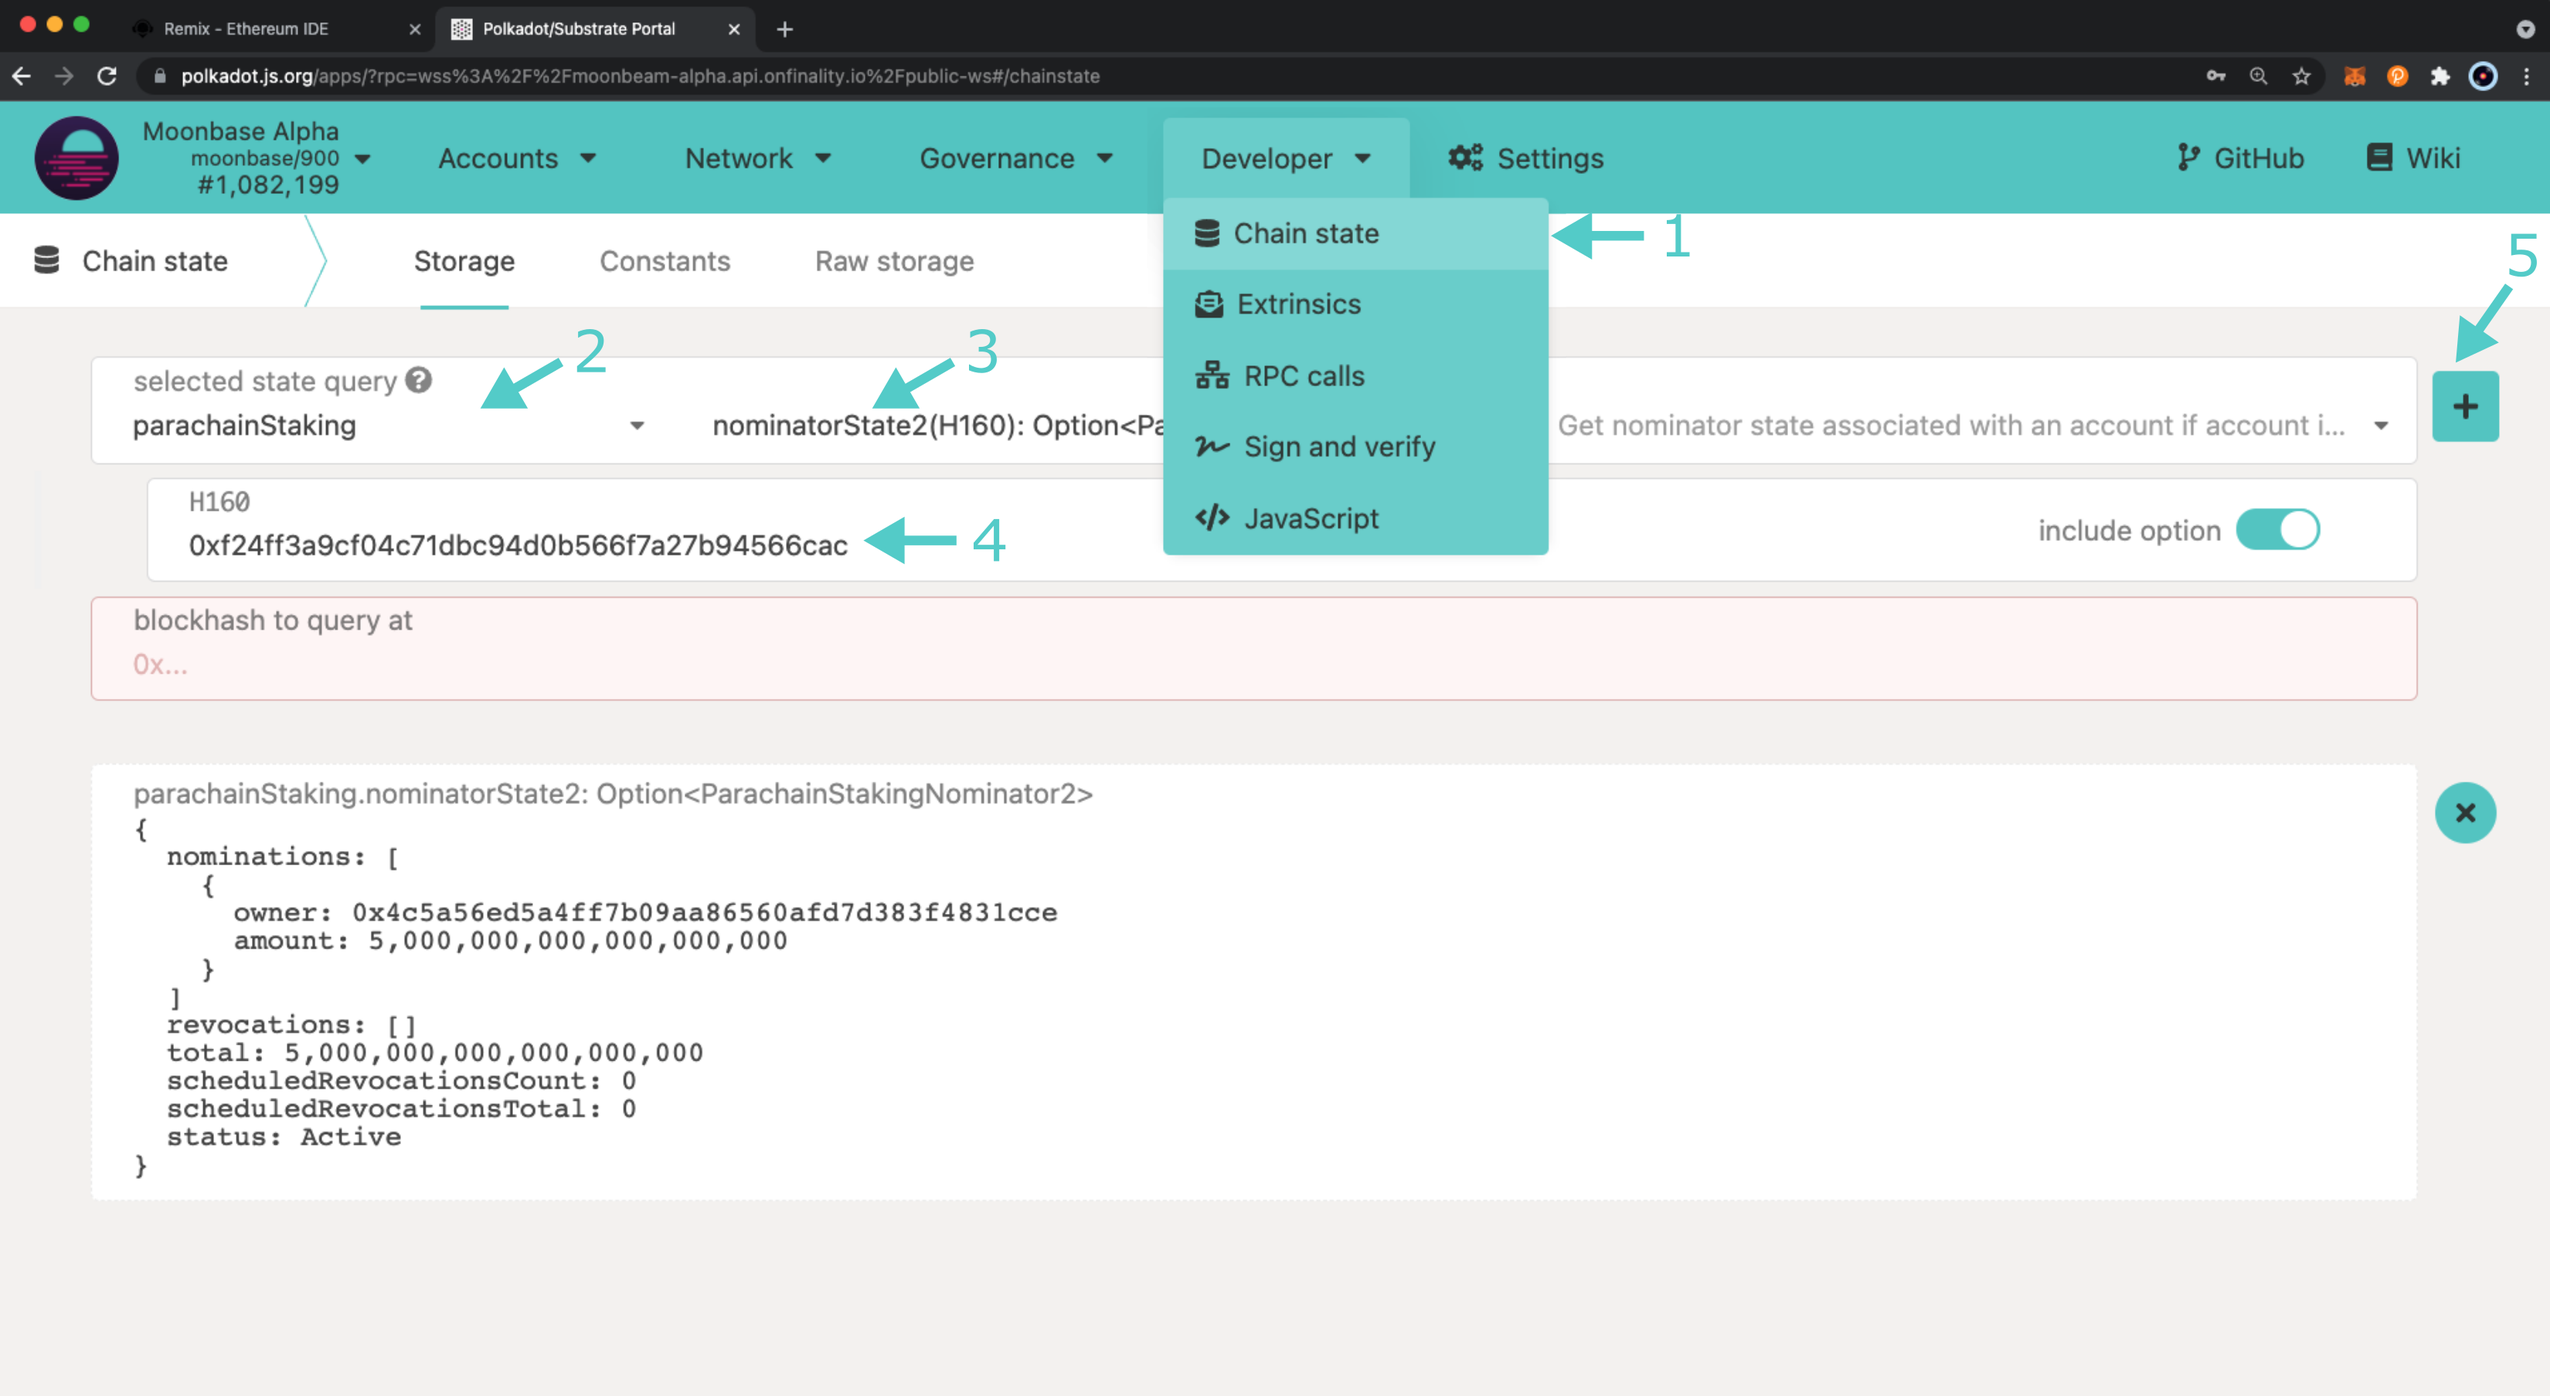
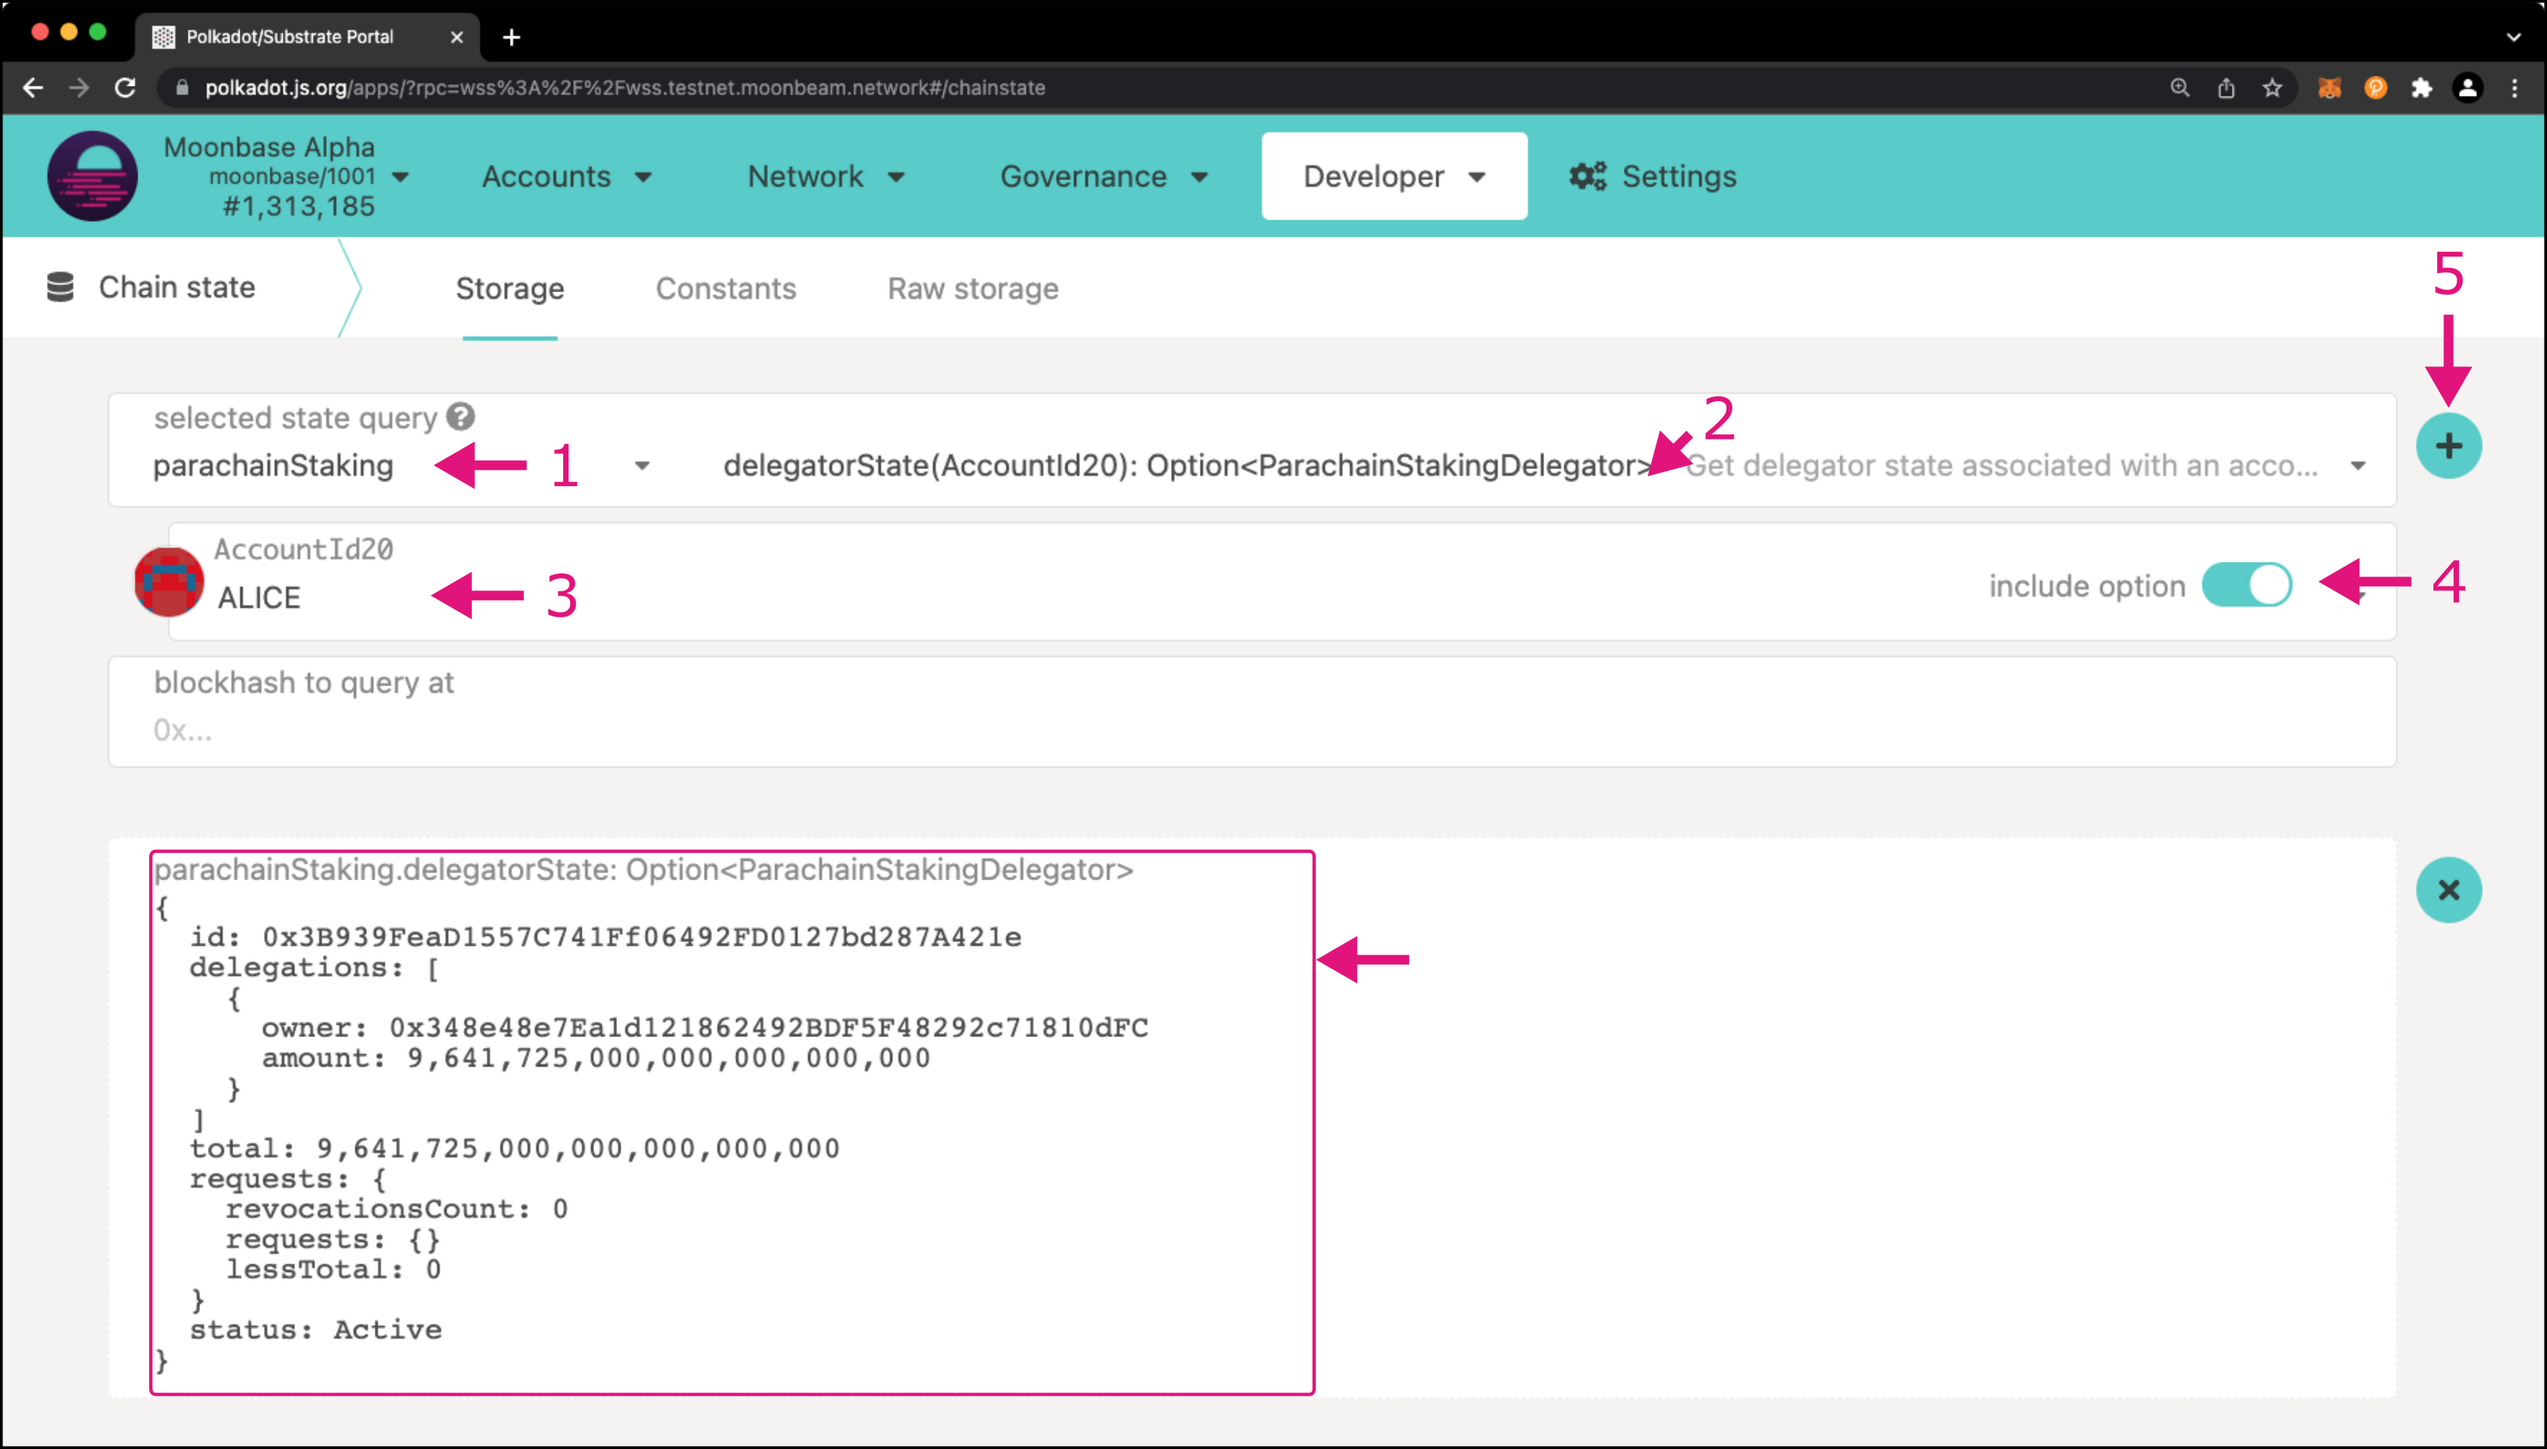
add verify delegator state image for staking precompile

Changed region(s): [[0.0, 0.0, 1.0, 1.0], [0.0312, 0.5578, 0.4374, 0.9297], [0.4998, 0.6508, 0.5623, 0.6818]]

diff --git a/tokens/staking/stakingprecompile.md b/tokens/staking/stakingprecompile.md
@@ -161,7 +161,7 @@ To verify your delegation was successful, you can check the chain state in Polka
 
 1. To verify your delegation was successful, head to [Polkadot.js Apps](https://polkadot.js.org/apps/?rpc=wss%3A%2F%2Fwss.testnet.moonbeam.network#/chainstate) and navigate to **Developer** and then **Chain State**
 2. Select the **parachainStaking** pallet
-3. Select the **delegatorState** query for Moonbase Alpha, or **nominatorState2** for Moonriver
+3. Select the **delegatorState** query
 4. Enter your address
 5. Click the **+** button to return the results and verify your delegation
 
